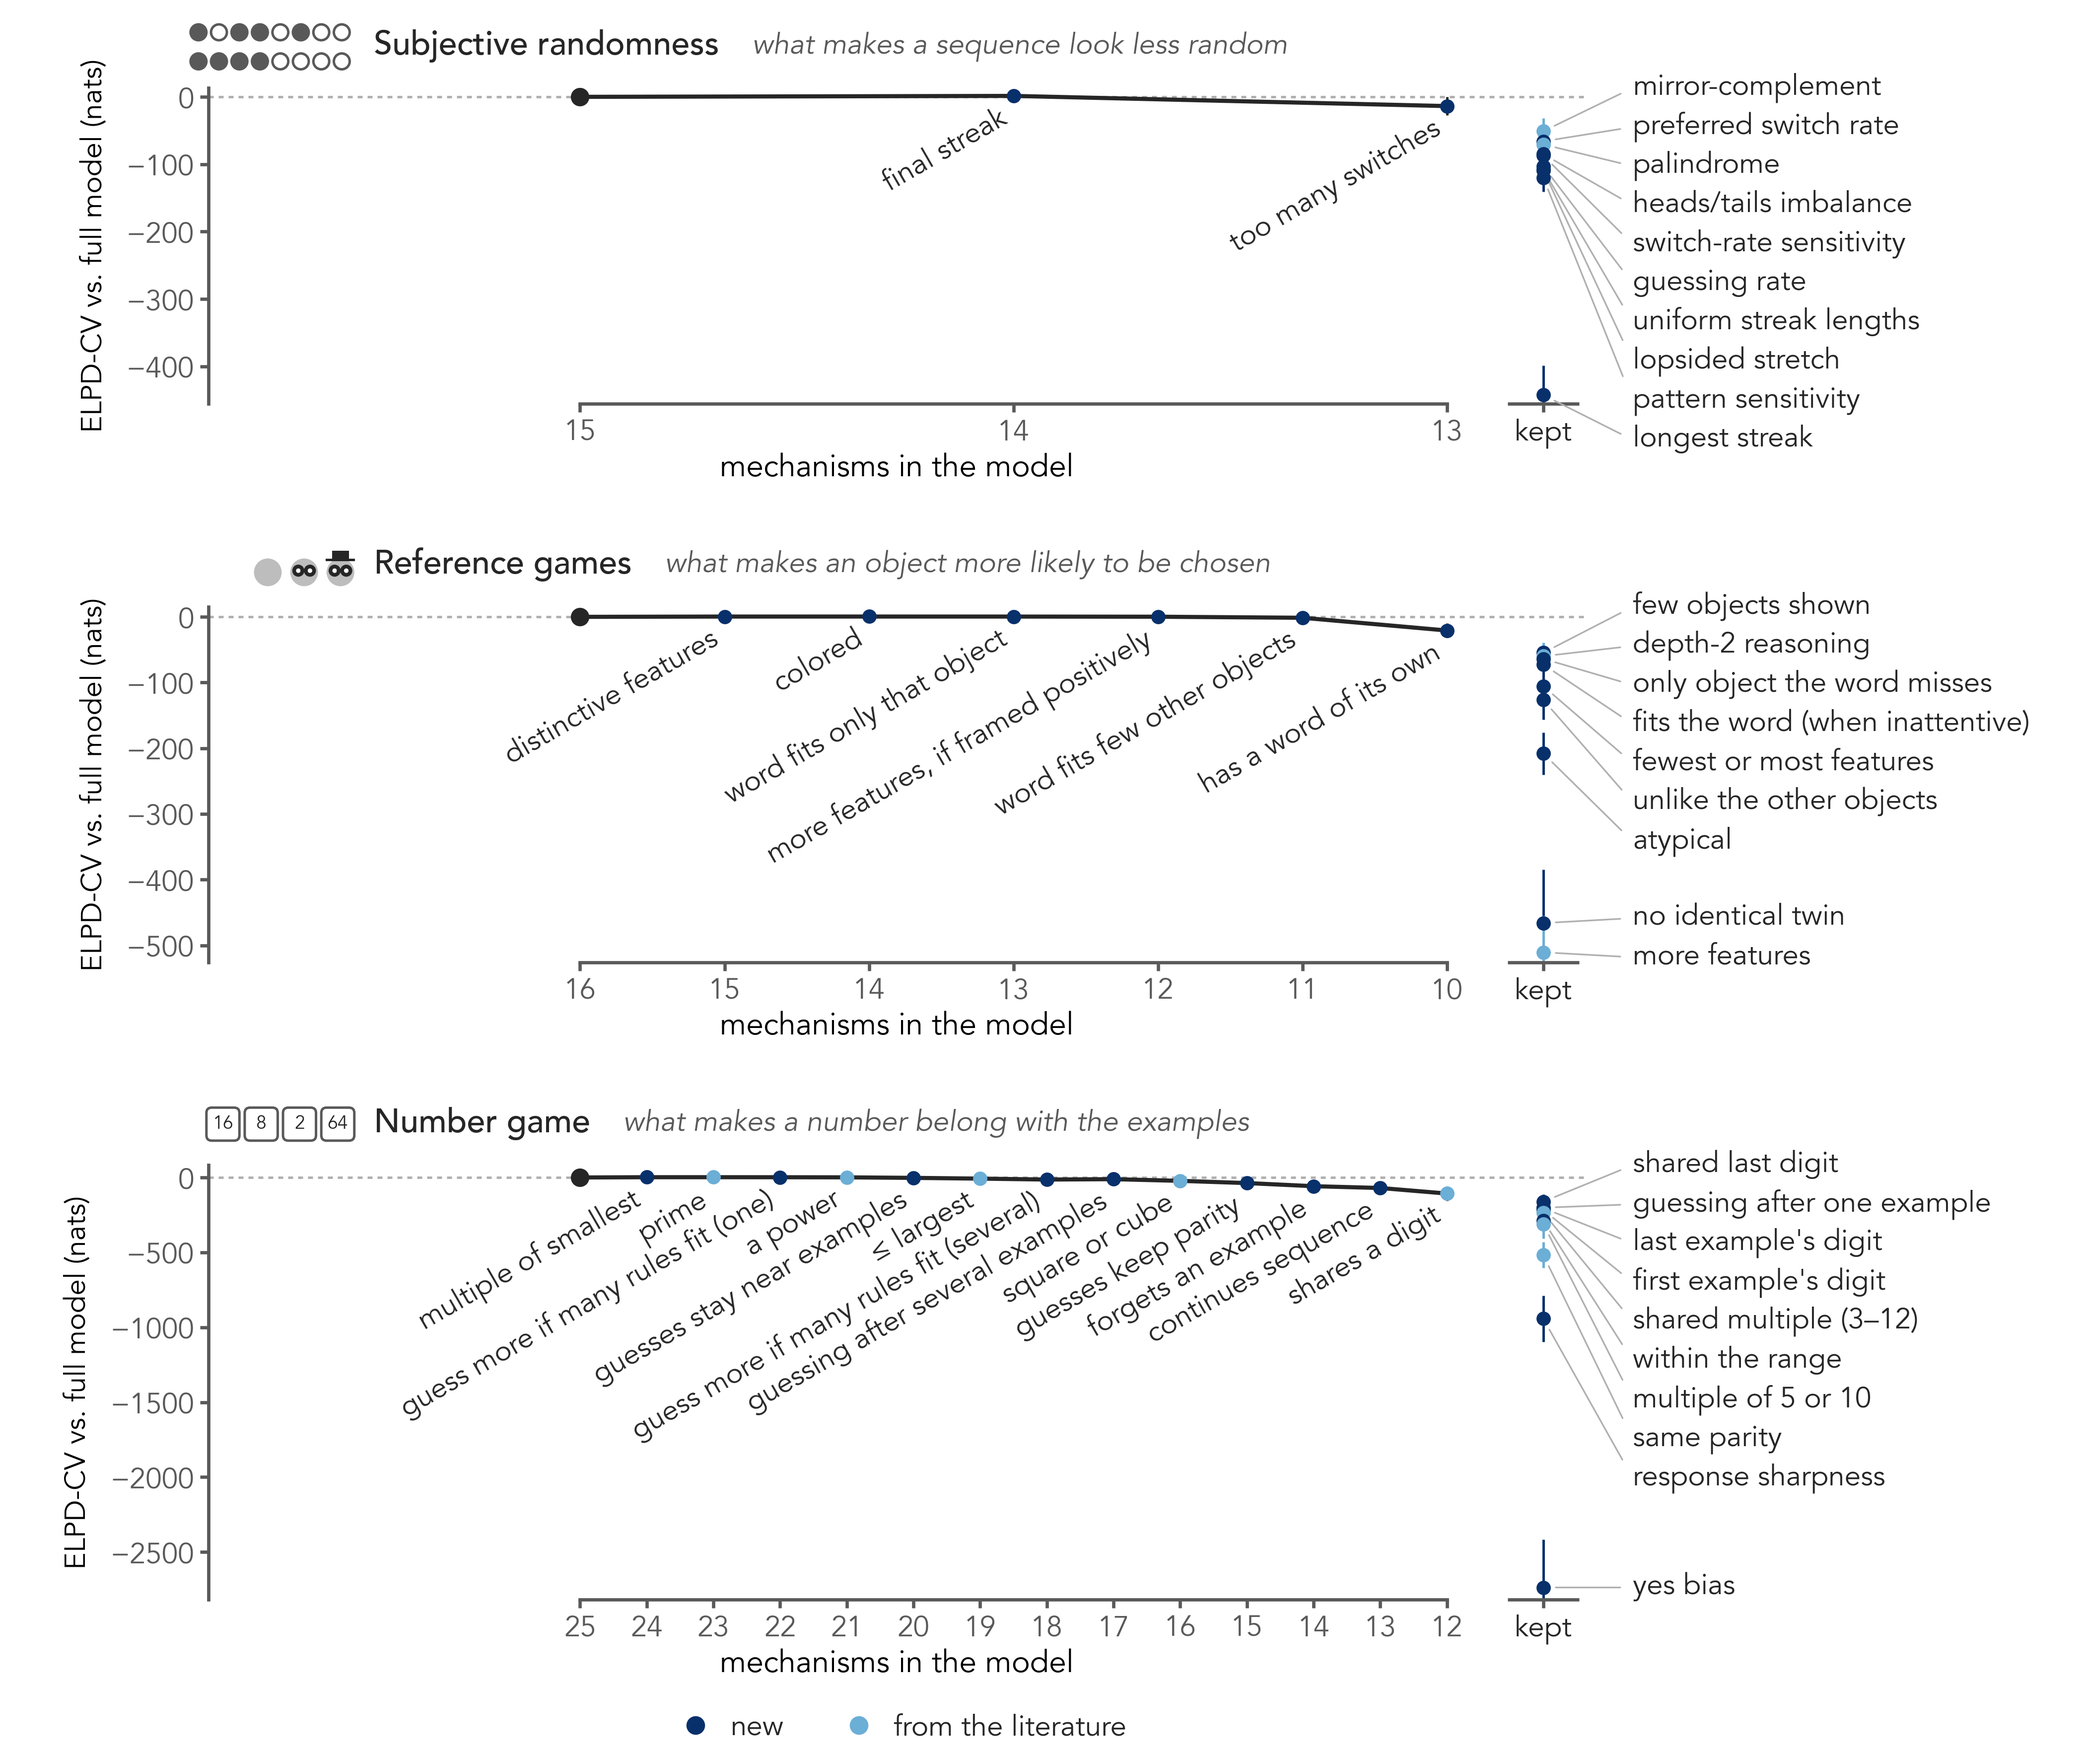
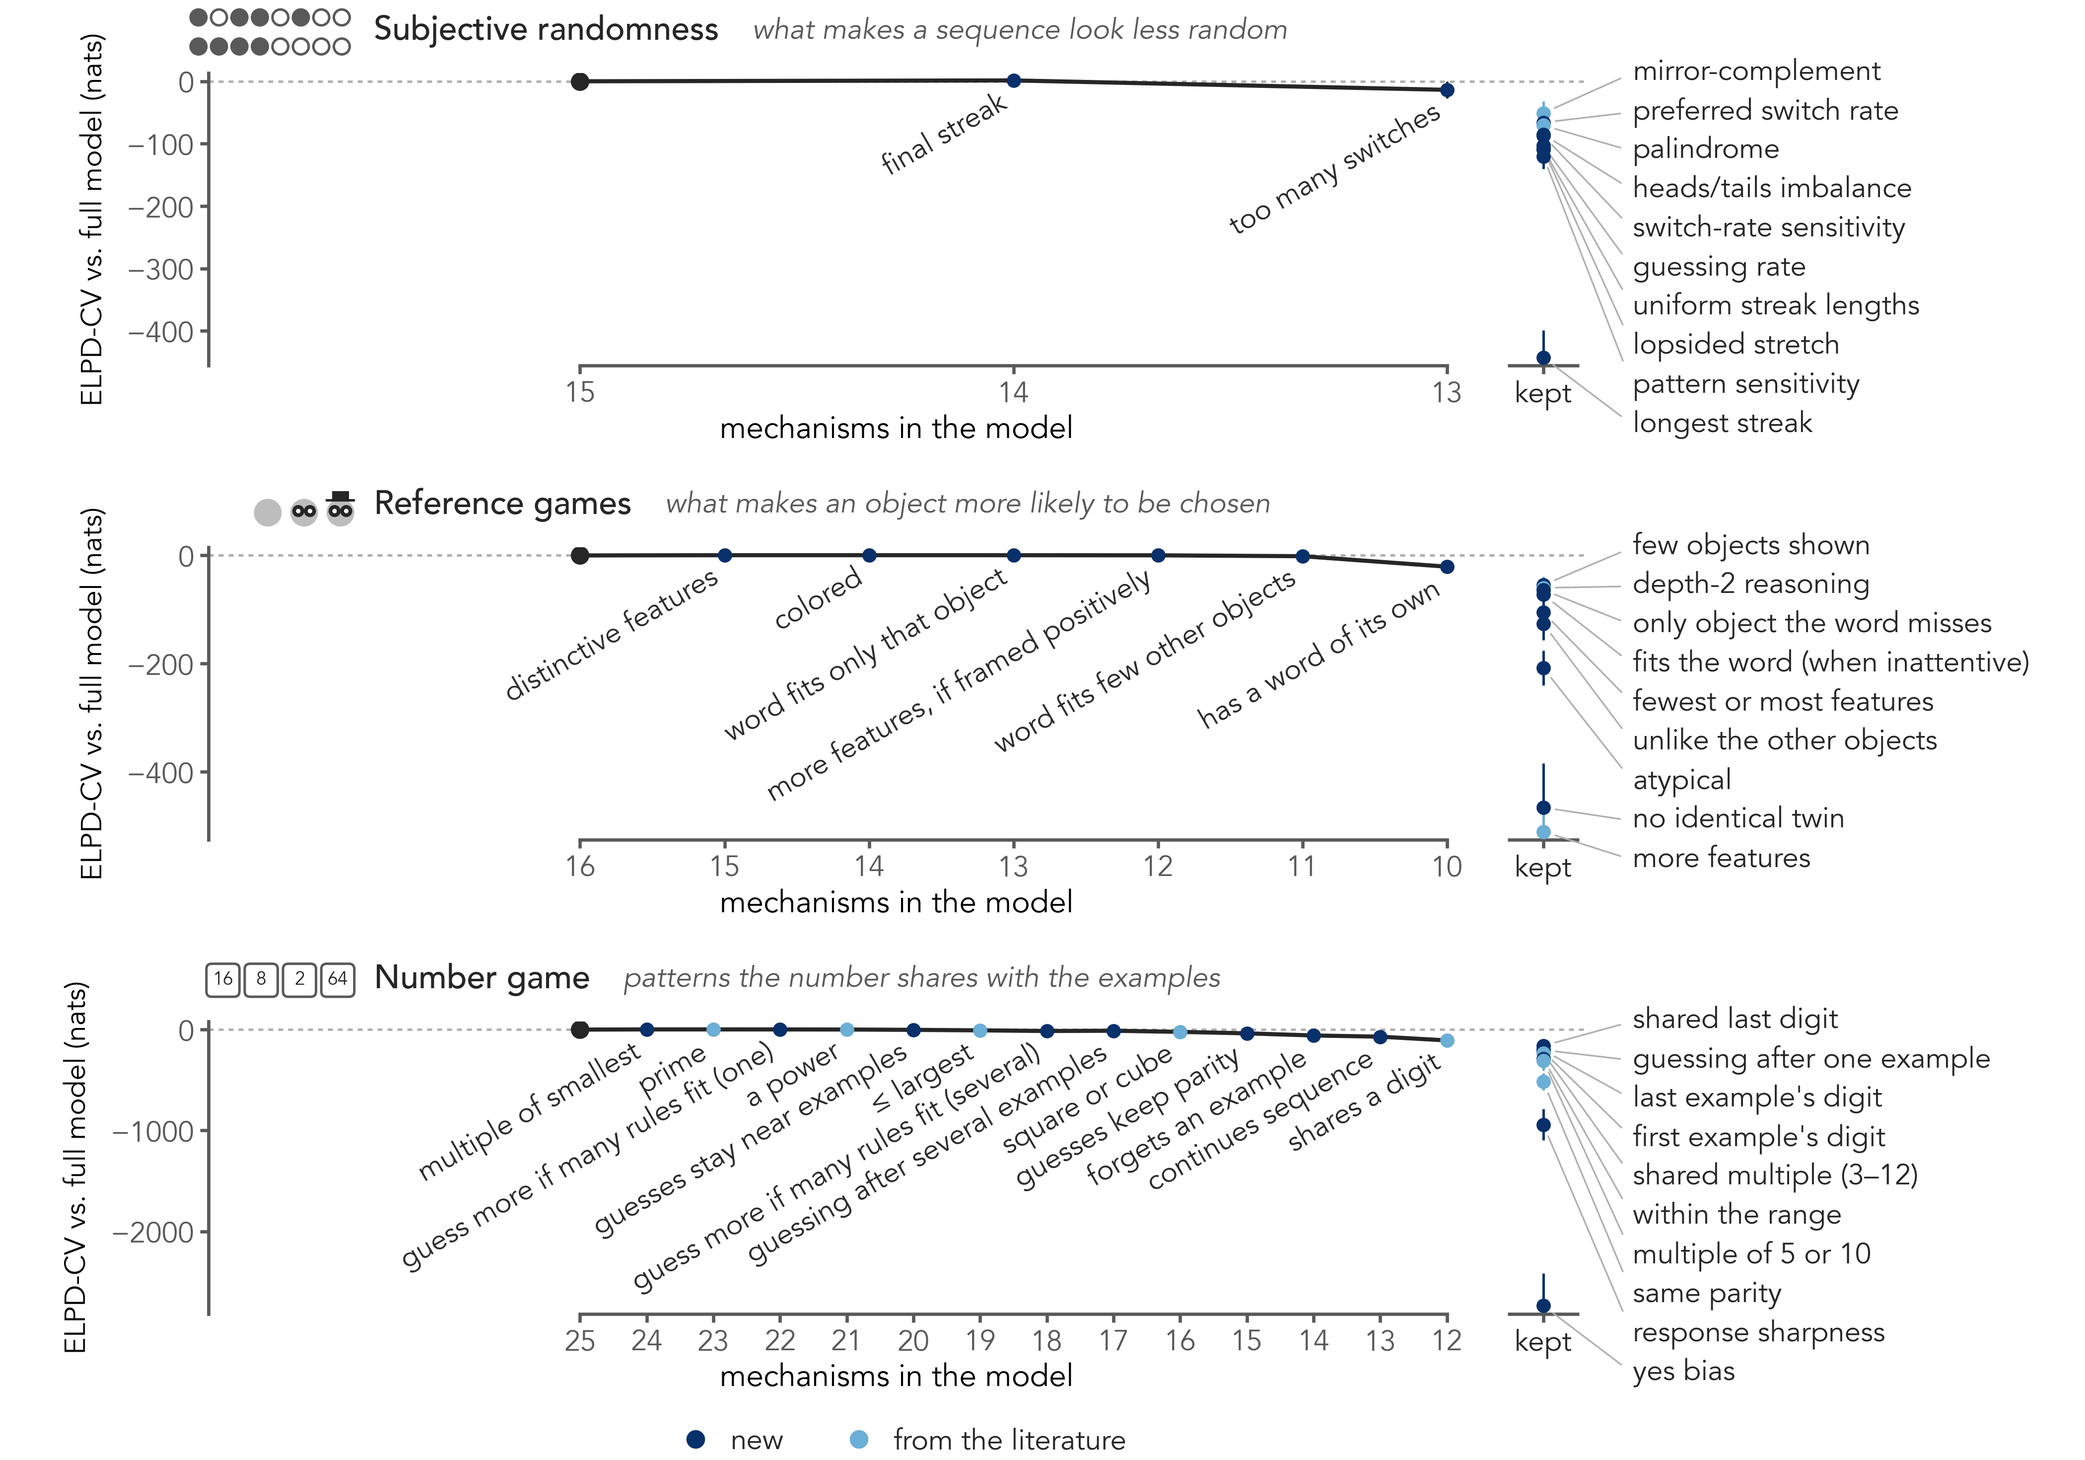
Figure 4 draft: three rows tightened to 7 x 4.9 in; number game's line, 'patterns the number shares with the examples'

diff --git a/data/paper/work/fig4_draft/fig4_draft.py b/data/paper/work/fig4_draft/fig4_draft.py
@@ -24,11 +24,11 @@ COLOR_NEW, COLOR_START, PATH = "#08306b", "#6baed6", "#262626"
 NAME_PT, SMALL = 7.0, 7.0
 BREAK_IN, NAMES_IN = 0.06, 0.3  # the kept column's axis half-length, the names' offset (inches)
 LEFT, COLUMN, COLUMN_AT = 0.27, 0.1, 0.07  # shares of each axis: room for the first name, past the path, to the column  # PNAS: no text under 6 pt at the printed size
-WIDTH_IN, HEIGHT_IN, DPI = 7.0, 5.9, 600  # one row per domain  # the saved figure: PNAS's full width
+WIDTH_IN, HEIGHT_IN, DPI = 7.0, 4.9, 600  # one row per domain; the saved figure: PNAS's full width
 # each panel's cues are named by what pushes its response this way (the fitted signs: mechanisms.yaml)
 DIRECTION = {"subjective_randomness": "what makes a sequence look less random",
              "rsa": "what makes an object more likely to be chosen",
-             "number_game": "what makes a number belong with the examples"}
+             "number_game": "patterns the number shares with the examples"}
 
 
 def sources():
@@ -125,8 +125,8 @@ def draw(ax, elimination, names):
 
 
 def figure(canvas_in, names, src):
-    fig, axes = plt.subplots(3, 1, figsize=(canvas_in, HEIGHT_IN), dpi=DPI, gridspec_kw={"hspace": 0.55, "height_ratios": [0.8, 0.9, 1.1]})
-    fig.subplots_adjust(left=0.1, right=0.76, top=0.95, bottom=0.09)  # the options' names to the right
+    fig, axes = plt.subplots(3, 1, figsize=(canvas_in, HEIGHT_IN), dpi=DPI, gridspec_kw={"hspace": 0.62})
+    fig.subplots_adjust(left=0.1, right=0.76, top=0.95, bottom=0.1)  # the options' names to the right
     for ax, d in zip(axes, TITLES):
         draw(ax, json.loads(src[d].read_text()), names[d])
     for ax in axes:
